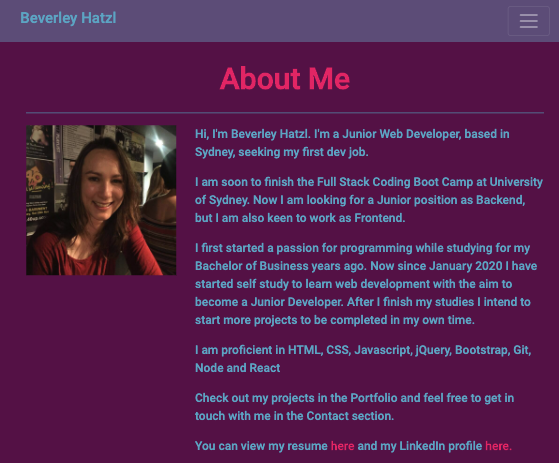
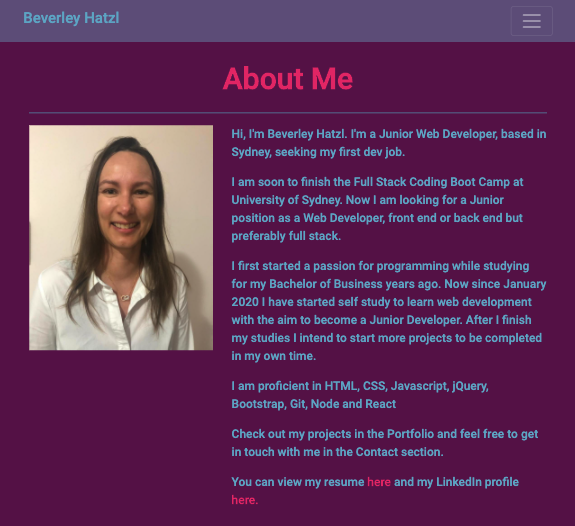
update images for readme

diff --git a/index.html b/index.html
@@ -49,7 +49,8 @@
                         <p>Hi, I'm Beverley Hatzl. I'm a Junior Web Developer, based in Sydney, seeking my first dev
                             job.</p>
                         <p>I am soon to finish the Full Stack Coding Boot Camp at University of Sydney. Now I am
-                            looking for a Junior position as Backend, but I am also keen to work as Frontend.</p>
+                            looking for a Junior position as a Web Developer, front end or back end but preferably full
+                            stack.</p>
                         <p>I first started a passion for programming while studying for my Bachelor of Business years
                             ago. Now since January 2020 I have started self study to learn web development with the aim
                             to become a Junior Developer. After I finish my studies I intend to start more projects to
